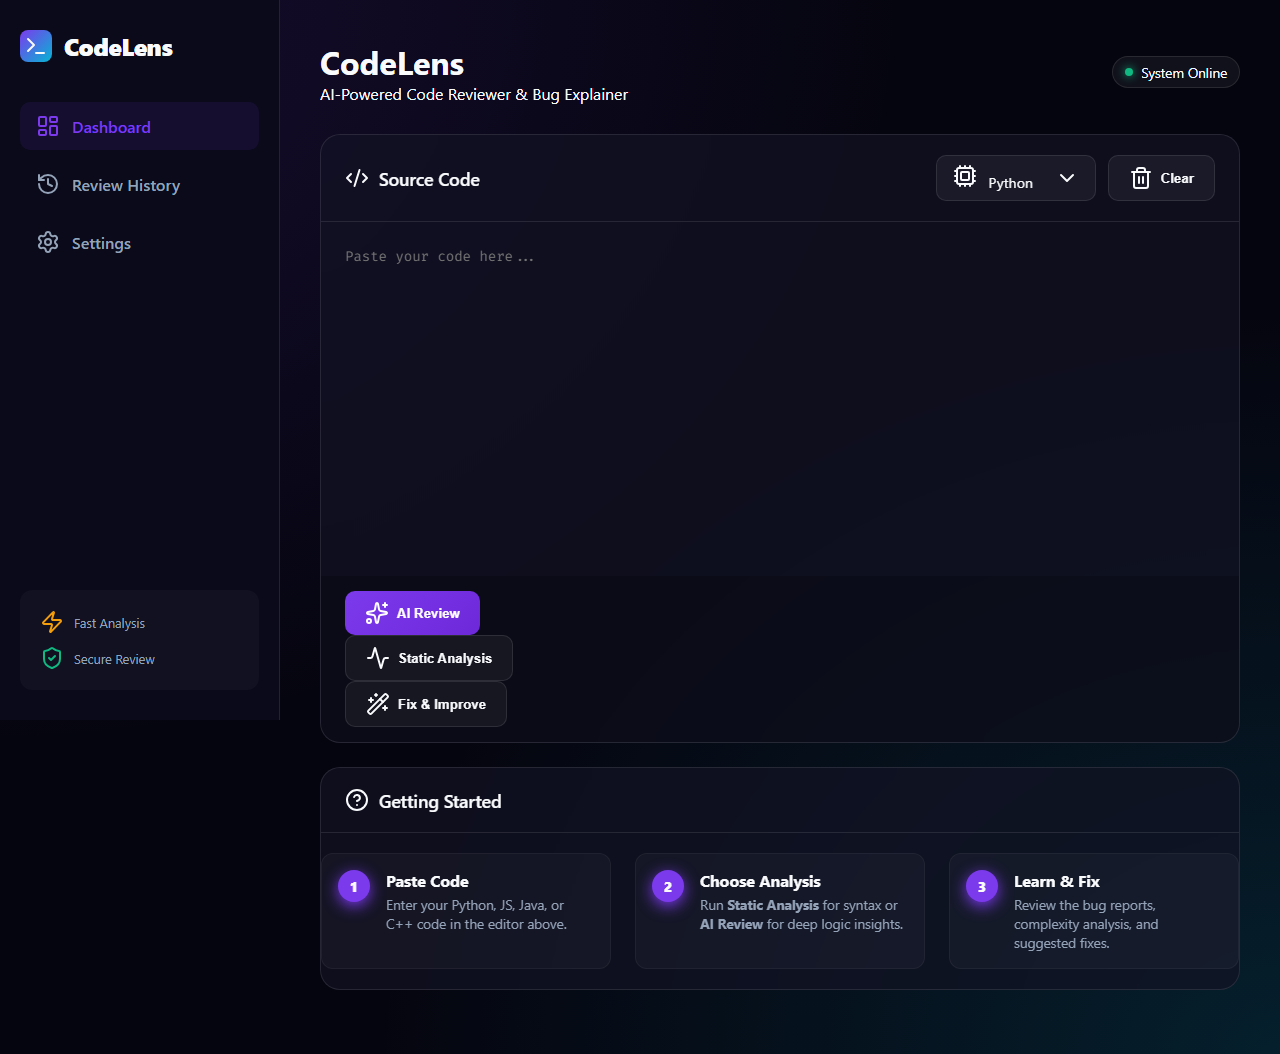
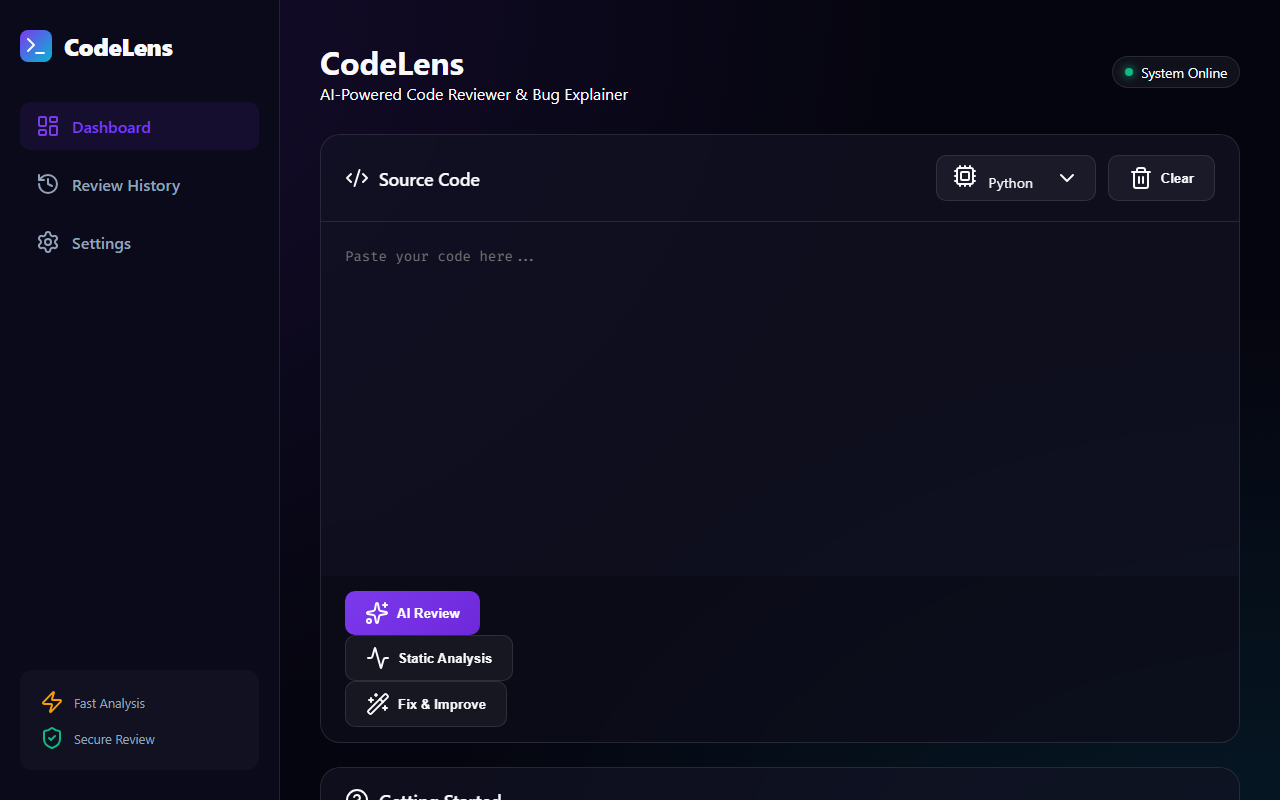
Polish README with centered and perfectly cropped screenshots

diff --git a/backend/capture_screenshots.py b/backend/capture_screenshots.py
@@ -5,7 +5,9 @@ import os
 async def capture():
     async with async_playwright() as p:
         browser = await p.chromium.launch()
-        page = await browser.new_page()
+        # Use a professional 1280x800 viewport
+        context = await browser.new_context(viewport={'width': 1280, 'height': 800})
+        page = await context.new_page()
         
         # Ensure screenshot dir exists
         os.makedirs("../frontend/assets/screenshots", exist_ok=True)
@@ -14,7 +16,7 @@ async def capture():
         print("Capturing main.png...")
         await page.goto("http://127.0.0.1:5000")
         await page.wait_for_selector(".logo-area")
-        await page.screenshot(path="../frontend/assets/screenshots/main.png", full_page=True)
+        await page.screenshot(path="../frontend/assets/screenshots/main.png")
         
         # 2. Capture Static Analysis
         print("Capturing analysis.png...")
@@ -23,15 +25,15 @@ async def capture():
         await page.click("button:has-text('Static Analysis')")
         await page.wait_for_selector(".analysis-pre")
         await asyncio.sleep(1) # Wait for animation
-        await page.screenshot(path="../frontend/assets/screenshots/analysis.png", full_page=True)
+        await page.screenshot(path="../frontend/assets/screenshots/analysis.png")
         
         # 3. Capture AI Review
         print("Capturing review.png...")
         await page.click("button:has-text('AI Review')")
         # Wait for results card
-        await page.wait_for_selector(".result-item", timeout=60000)
+        await page.wait_for_selector(".score-card-premium", timeout=60000)
         await asyncio.sleep(2) # Wait for fade-in
-        await page.screenshot(path="../frontend/assets/screenshots/review.png", full_page=True)
+        await page.screenshot(path="../frontend/assets/screenshots/review.png")
         
         await browser.close()
         print("Done!")

diff --git a/README.md b/README.md
@@ -14,13 +14,19 @@
 ## 📸 Screenshots
 
 ### Main Dashboard
-![Main Page](frontend/assets/screenshots/main.png)
+<p align="center">
+  <img src="frontend/assets/screenshots/main.png" width="800">
+</p>
 
 ### Static Analysis
-![Static Analysis](frontend/assets/screenshots/analysis.png)
+<p align="center">
+  <img src="frontend/assets/screenshots/analysis.png" width="800">
+</p>
 
 ### AI Review Results
-![AI Review](frontend/assets/screenshots/review.png)
+<p align="center">
+  <img src="frontend/assets/screenshots/review.png" width="800">
+</p>
 
 ## 🛠 Tech Stack
 
